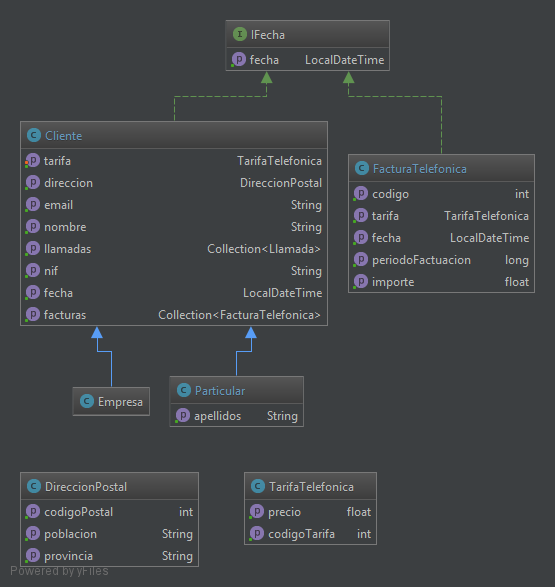
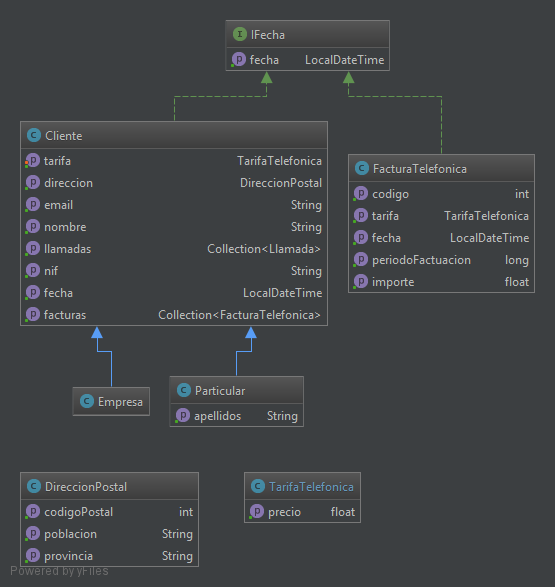
Constructor de tarifa ahora pide precio

diff --git a/src/main/java/es/uji/al341823/telefonia/gui/ConsoleGUI.java b/src/main/java/es/uji/al341823/telefonia/gui/ConsoleGUI.java
@@ -105,7 +105,7 @@ public class ConsoleGUI {
 			System.out.println("Introduce los datos del particular:");
 		} else if (tipoCliente == 2) {
 			System.out.println("Introduce los siguientes datos:");
-			Administrador.generarParticularesAleatorios(leerNumero("Numero de particlulares a generar"));
+			Administrador.generarParticularesAleatorios((int) leerNumero("Numero de particlulares a generar"));
 			return;
 		} else {
 			System.out.println("Introduce los datos de la empresa:");
@@ -237,7 +237,7 @@ public class ConsoleGUI {
 		String origen = leerTexto("Numero de origen");
 		String destino = leerTexto("Numero de destino");
 		LocalDateTime fecha = leerFecha("Fecha de la llamada");
-		int duracion = leerNumero("Duracion de la llamada en segundos");
+		int duracion = (int) leerNumero("Duracion de la llamada en segundos");
 
 		Llamada llamada = new Llamada(origen, destino, fecha, duracion);
 		Administrador.altaLlamada(nif, llamada);
@@ -316,7 +316,7 @@ public class ConsoleGUI {
 	 */
 	private static void verFactura() {
 		System.out.println("Introduce los siguientes datos de la factura:");
-		int cod = leerNumero("Codigo factura");
+		int cod = (int) leerNumero("Codigo factura");
 
 		FacturaTelefonica factura = Administrador.getFactura(cod);
 		System.out.println("Información de la factura con codigo" + cod + ":");
@@ -390,21 +390,21 @@ public class ConsoleGUI {
 		return scanner.nextLine();
 	}
 
-	private static int leerNumero(String mensaje) {
+	private static float leerNumero(String mensaje) {
 		System.out.print(" - " + mensaje + ": ");
 
-		int i = -1;
+		float f = -1;
 
 		do {
 			try {
-				i = scanner.nextInt();
+				f = scanner.nextFloat();
 			} catch (Exception e) {
 				System.out.println("Error en el formato del numero");
 				System.out.print(" - " + mensaje + ": ");
 			}
-		} while (i < 0);
+		} while (f < 0);
 
-		return i;
+		return f;
 	}
 
 	private static DireccionPostal leerDireccion(String mensaje) {

diff --git a/src/main/java/es/uji/al341823/telefonia/facturacion/TarifaTelefonica.java b/src/main/java/es/uji/al341823/telefonia/facturacion/TarifaTelefonica.java
@@ -7,27 +7,17 @@ package es.uji.al341823.telefonia.facturacion;
  */
 public class TarifaTelefonica {
 
-	/** Codigo de la tarifa */
-	private final int codigoTarifa;
 	/** Precio por minuto de la tarifa (€/min) */
 	private final float precio;
 
 	/**
-	 * Crea una tarifa con un codigo
+	 * Crea una tarifa con un precio determinado
 	 *
-	 * @param codigoTarifa Codigo de la tarifa
+	 * @param precio Precio de la tarifa
 	 */
-	public TarifaTelefonica(int codigoTarifa) {
-		this.codigoTarifa = codigoTarifa;
-		this.precio = 0.10f; // TODO
+	public TarifaTelefonica(float precio) {
+		this.precio = precio;
 	}
-
-	/**
-	 * Devuelve el codigo de la tarifa
-	 *
-	 * @return Codigo de la tarifa
-	 */
-	public int getCodigoTarifa() { return codigoTarifa; }
 
 	/**
 	 * Devuelve le precio por minuto de la tarifa (€/min)
@@ -40,6 +30,6 @@ public class TarifaTelefonica {
 
 	@Override
 	public String toString() {
-		return "Tarifa=" + codigoTarifa + ", Precio=" + precio;
+		return "Precio=" + precio;
 	}
 }

diff --git a/src/test/java/ParticularTest.java b/src/test/java/ParticularTest.java
@@ -39,7 +39,7 @@ public class ParticularTest {
 		String prov = generador.getProvincia();
 		email = nombre + "@uji.es";
 		fecha = LocalDateTime.now();
-		tarifa = new TarifaTelefonica(rand.nextInt(5));
+		tarifa = new TarifaTelefonica(rand.nextFloat());
 		direccion = new DireccionPostal(12100, prov, generador.getPoblacion(prov));
 
 		llamadas = new LinkedList<>();
@@ -80,7 +80,7 @@ public class ParticularTest {
 
 	@Test
 	public void setTarifaTest() {
-		TarifaTelefonica tarifaNueva = new TarifaTelefonica(rand.nextInt(5));
+		TarifaTelefonica tarifaNueva = new TarifaTelefonica(rand.nextFloat());
 		cliente.setTarifa(tarifaNueva);
 		tarifa = tarifaNueva;
 		Assert.assertEquals(tarifaNueva, cliente.getTarifa());

diff --git a/src/test/java/AdministradorTest.java b/src/test/java/AdministradorTest.java
@@ -35,7 +35,7 @@ public class AdministradorTest {
 			String prov = generador.getProvincia();
 			DireccionPostal direccion = new DireccionPostal(12100, prov, generador.getPoblacion(prov));
 			String nombre = generador.getNombre();
-			Cliente cliente = new Particular(nombre, generador.getApellido(), generador.getNIF(), direccion, nombre + "@uji.es", LocalDateTime.now(), new TarifaTelefonica(rand.nextInt(5)));
+			Cliente cliente = new Particular(nombre, generador.getApellido(), generador.getNIF(), direccion, nombre + "@uji.es", LocalDateTime.now(), new TarifaTelefonica(rand.nextFloat()));
 
 			clientes.add(cliente);
 			Administrador.altaCliente(cliente);

diff --git a/src/main/java/es/uji/al341823/telefonia/api/Administrador.java b/src/main/java/es/uji/al341823/telefonia/api/Administrador.java
@@ -179,7 +179,7 @@ public class Administrador {
 
 			String email = nombre.toLowerCase().replace(' ', '_') + "@example.com";
 			LocalDateTime fecha = LocalDateTime.of(2010 + rand.nextInt(10), 1 + rand.nextInt(12), 1 + rand.nextInt(28), rand.nextInt(24), rand.nextInt(60), rand.nextInt(60));
-			TarifaTelefonica tarifa = new TarifaTelefonica(1);
+			TarifaTelefonica tarifa = new TarifaTelefonica(rand.nextFloat());
 
 			altaCliente(new Particular(nombre, apellidos, nif, direccion, email, fecha, tarifa));
 		}
